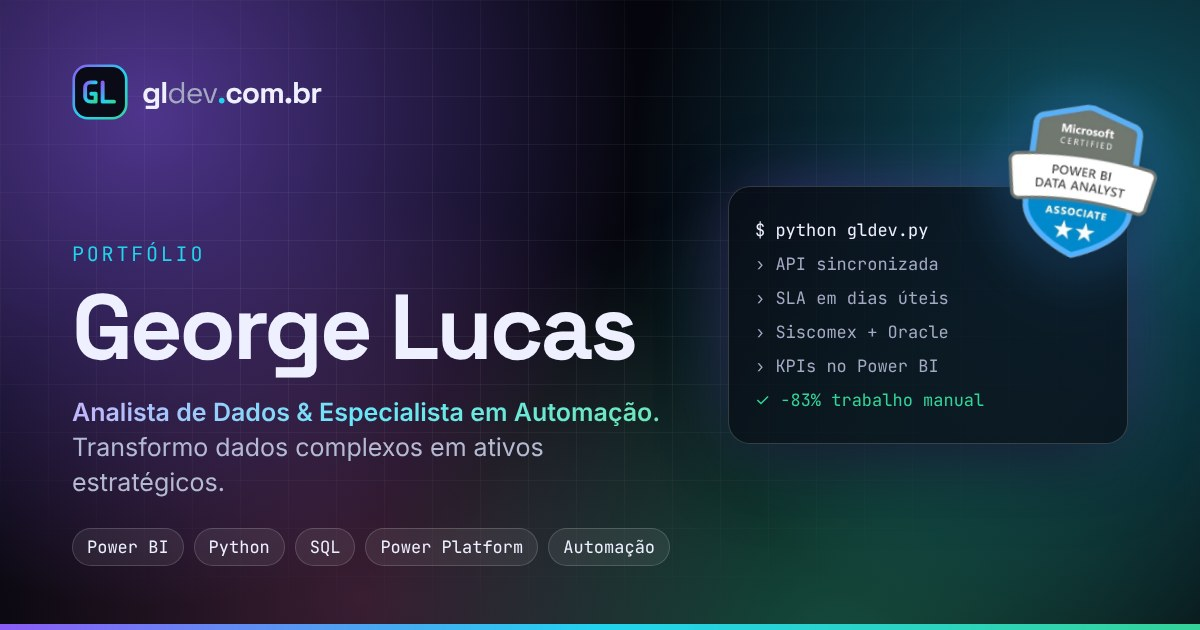
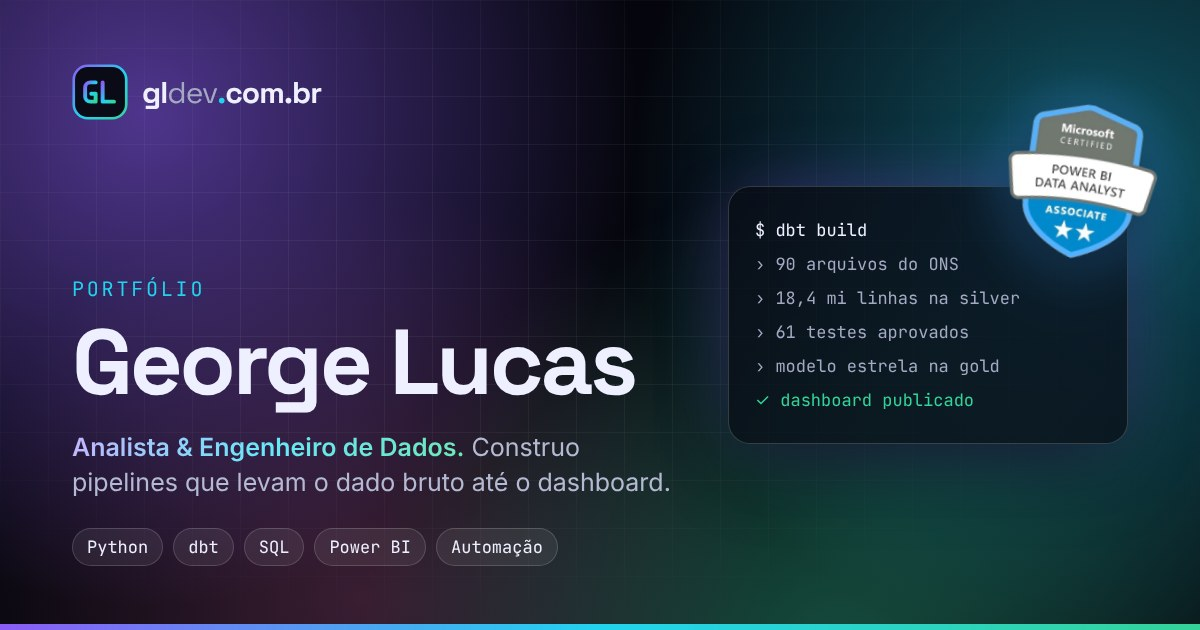
Atualiza SEO e prévias de link para Engenharia e Análise de Dados
Título e descrição novos, JSON-LD com o cargo, a frase curta, os novos
conhecimentos e worksFor Taesa; prévia do site com o cargo e o pipeline
novos e prévia do projeto do setor elétrico.

Claude-Session: https://claude.ai/code/session_01QcEhV5DZW7eNT5k3FmKKpr

diff --git a/scripts/gerar-imagens.ts b/scripts/gerar-imagens.ts
@@ -12,6 +12,7 @@ import { createRequire } from 'node:module';
 import { join } from 'node:path';
 import { perfil } from '../src/conteudo/perfil.ts';
 import { projetos } from '../src/conteudo/projetos.ts';
+import { site } from '../src/conteudo/site.ts';
 
 const require = createRequire(import.meta.url);
 const { chromium } = require('playwright') as typeof import('playwright');
@@ -88,22 +89,22 @@ function pagina(conteudo: string) {
 const marca = `<div class="marca">${ICONE_GL}<div>gl<span>dev</span><i>.</i>com.br</div></div>`;
 
 function htmlInicial() {
-  const chips = ['Power BI', 'Python', 'SQL', 'Power Platform', 'Automação'].map((c) => `<span>${c}</span>`).join('');
+  const chips = ['Python', 'dbt', 'SQL', 'Power BI', 'Automação'].map((c) => `<span>${c}</span>`).join('');
   return pagina(`
     <div class="texto">
       ${marca}
       <div class="rotulo">Portfólio</div>
       <h1 style="font-size: 92px">${perfil.nome}</h1>
-      <p class="resumo"><span class="grad" style="font-weight:600">${perfil.cargo}.</span> ${perfil.chamada}</p>
+      <p class="resumo"><span class="grad" style="font-weight:600">${perfil.cargo}.</span> ${site.resumoPessoa}</p>
       <div class="chips">${chips}</div>
     </div>
     <div class="lado" style="position: relative"><img src="${imagem('certificacoes/pl-300.webp')}" style="position: absolute; top: 40px; right: -28px; width: 150px; transform: rotate(8deg); filter: drop-shadow(0 12px 24px rgba(0,0,0,.6)) drop-shadow(0 0 24px rgba(56,152,236,.6)); z-index: 2"><div class="cartao terminal">
-      <div class="cmd">$ python gldev.py</div>
-      <div>› API sincronizada</div>
-      <div>› SLA em dias úteis</div>
-      <div>› Siscomex + Oracle</div>
-      <div>› KPIs no Power BI</div>
-      <div class="ok">✓ -83% trabalho manual</div>
+      <div class="cmd">$ dbt build</div>
+      <div>› 90 arquivos do ONS</div>
+      <div>› 18,4 mi linhas na silver</div>
+      <div>› 61 testes aprovados</div>
+      <div>› modelo estrela na gold</div>
+      <div class="ok">✓ dashboard publicado</div>
     </div></div>`);
 }
 

diff --git a/plugins/paginasEstaticas.ts b/plugins/paginasEstaticas.ts
@@ -48,13 +48,29 @@ function dadosEstruturados() {
     name: perfil.nomeCompleto,
     alternateName: perfil.nome,
     jobTitle: perfil.cargo,
-    description: perfil.chamada,
+    description: site.resumoPessoa,
     url: site.url,
     image: `${site.url}${perfil.foto.src}`,
     email: `mailto:${perfil.contato.email}`,
     address: { '@type': 'PostalAddress', addressLocality: 'Rio de Janeiro', addressRegion: 'RJ', addressCountry: 'BR' },
     sameAs: [perfil.contato.linkedin, perfil.contato.github].filter(Boolean),
-    knowsAbout: ['Power BI', 'DAX', 'Power Query', 'Python', 'SQL', 'Automação de processos (RPA)', 'Power Platform'],
+    knowsAbout: [
+      'Engenharia de dados',
+      'dbt',
+      'DuckDB',
+      'Modelagem dimensional',
+      'GitHub Actions',
+      'Power BI',
+      'DAX',
+      'Power Query',
+      'Python',
+      'SQL',
+      'Automação de processos (RPA)',
+      'Power Platform',
+      'Mapeamento de processos',
+      'Lean Six Sigma',
+    ],
+    ...(site.empresaAtual && { worksFor: { '@type': 'Organization', name: site.empresaAtual } }),
   };
   return `<script type="application/ld+json">${JSON.stringify(pessoa)}</script>`;
 }

diff --git a/src/conteudo/site.ts b/src/conteudo/site.ts
@@ -5,8 +5,12 @@
  */
 export const site = {
   url: 'https://gldev.com.br',
-  titulo: 'George Lucas — Dados, BI e Automação | gldev',
+  titulo: 'George Lucas — Engenharia e Análise de Dados | gldev',
   descricao:
-    'Portfólio de George Lucas, analista de dados e especialista em automação: painéis em Power BI, robôs em Python e integrações com Siscomex, Oracle e SharePoint.',
+    'Portfólio de George Lucas, analista e engenheiro de dados: pipelines com Python, dbt e DuckDB, painéis em Power BI e automações em Python.',
   imagemCompartilhamento: '/og/gldev.jpg',
+  // Frase curta sobre o George, lida pelo Google (dados estruturados)
+  resumoPessoa: 'Construo pipelines que levam o dado bruto até o dashboard.',
+  // Empresa atual, também para o Google; deixe '' se não quiser informar
+  empresaAtual: 'Taesa',
 };
